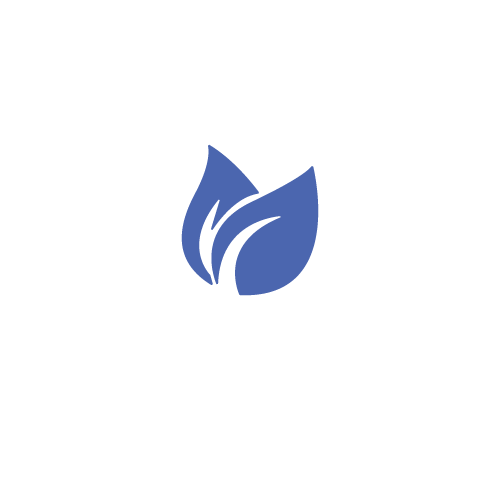
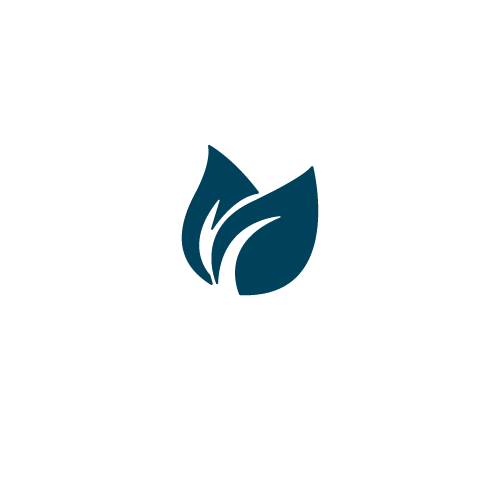
Changes made to colour scheme

Changed region(s): [[0.36, 0.3, 0.66, 0.6]]

diff --git a/css/timeline.css b/css/timeline.css
@@ -41,7 +41,7 @@
   bottom: 0;
   width: 400px;
   padding: 15px;
-  background: #4B66AF;
+  background: #00415b;
 }
 
 .timeline ul li div::before {
@@ -60,7 +60,7 @@
 .timeline ul li:nth-child(odd) div::before {
   left: -15px;
   border-width: 8px 16px 8px 0;
-  border-color: transparent #4B66AF transparent transparent;
+  border-color: transparent #00415b transparent transparent;
 }
 
 .timeline ul li:nth-child(even) div {
@@ -70,7 +70,7 @@
 .timeline ul li:nth-child(even) div::before {
   right: -15px;
   border-width: 8px 0 8px 16px;
-  border-color: transparent transparent transparent #4B66AF;
+  border-color: transparent transparent transparent #00415b;
 }
 
 time {
@@ -94,7 +94,7 @@ time {
 }
 
 .timeline ul li.in-view::after {
-  background: #4B66AF;
+  background: #00415b;
 }
 
 .timeline ul li div {
@@ -144,6 +144,6 @@ time {
   .timeline ul li:nth-child(even) div::before {
     left: -15px;
     border-width: 8px 16px 8px 0;
-    border-color: transparent #4B66AF transparent transparent;
+    border-color: transparent #00415b transparent transparent;
   }
 }

diff --git a/css/catSection.css b/css/catSection.css
@@ -1,5 +1,5 @@
 .project-areas{
-    background-color:#4b66af;
+    background-color: #00415b;
     color: white;
     height: 60em !important;
   }
@@ -32,17 +32,17 @@
 }
 
 .cat-back{
-    background-color: #4B66AF;
+    background-color: #00415b;
     padding: 4rem;
 }
 
 .cat-back-color{
-    background-color: #4B66AF;
+    background-color: #00415b;
 }
 
 @media only screen and (max-width: 600px) {
     .cat-back-color{
-        background-color: #4B66AF;
+        background-color: #00415b;
     }
 
     .cat-size-img{

diff --git a/index.html b/index.html
@@ -369,7 +369,7 @@
         <br>
         <!-- Nav pills -->
         <div class="tabs-section-gallery tabs-content-gallery">
-            <ul class="nav nav-pills nav-pill-list">
+            <ul class="nav nav-tabs nav-pill-list">
                 <li class="nav-item">
                     <a class="nav-link active gallery-links" data-toggle="pill" href="#home">2018</a>
                 </li>

diff --git a/css/contact.css b/css/contact.css
@@ -1,5 +1,5 @@
 .contact {
-    background-color: #4B66A4;   
+    background-color: #00415b;   
     padding-bottom: 2em; 
 }
 
@@ -18,7 +18,7 @@
     border-bottom: 0 !important;
     border-left: 0 !important;
     border-right: 1px solid rgba(255,255,255,0.25) !important;
-    background-color: #4B66A4;
+    background-color: #00415b;
     color: #FFFFFF;
     border-color: #FFFFFF;
 }

diff --git a/css/stats.css b/css/stats.css
@@ -1,11 +1,11 @@
  .statsBack{
-    background-color: #4b66AF;
+    background-color: #00415b;
     width: 100%;
     background-position: center;
 }
 
 .statistics{
-    background-color: #4b66AF;
+    background-color: #00415b;
     color: white;
     height: 25em !important; 
     padding-top: 1.5em;

diff --git a/css/gallery.css b/css/gallery.css
@@ -17,7 +17,7 @@
 }
 
 .gallery-title{
-  background-color: #4B66AF;
+  background-color: #00415b;
   padding: 4rem;
   color: #F4F4F4;
 }
@@ -27,4 +27,8 @@
   padding: 0 !important;
   margin: 0 !important;
   text-align: center !important;
+}
+
+.nav-pill-list{
+  padding-left: 2.7rem;
 }

diff --git a/css/style.css b/css/style.css
@@ -1,7 +1,7 @@
 
 .counter {
   height: 18em !important;
-  background-color: #4b66af;
+  background-color: #00415b;
   color: white;
 }
 
@@ -14,7 +14,6 @@
   font-size: 1.3em;
   font-weight: 400;
 }
-
 
 @media only screen and (max-width: 500px) {
   #clock{

diff --git a/css/footer.css b/css/footer.css
@@ -16,7 +16,7 @@
 }
 
 .clear:hover {
-    color: #4B66AF;
+    color: #00c588;
     text-decoration: none;
 }
 
@@ -27,7 +27,7 @@
 }
 
 .footer-logo-item:hover{
-    fill: #4B66AF;
+    fill: #00c588;
 }
 
 .footer-logo-content{

diff --git a/css/cards.css b/css/cards.css
@@ -79,7 +79,7 @@
 }
 
 .know-more-btn:hover {
-  background-color: #4B66A4;
+  background-color: #00c588;
   color: #FFFFFF; 
 }
 
